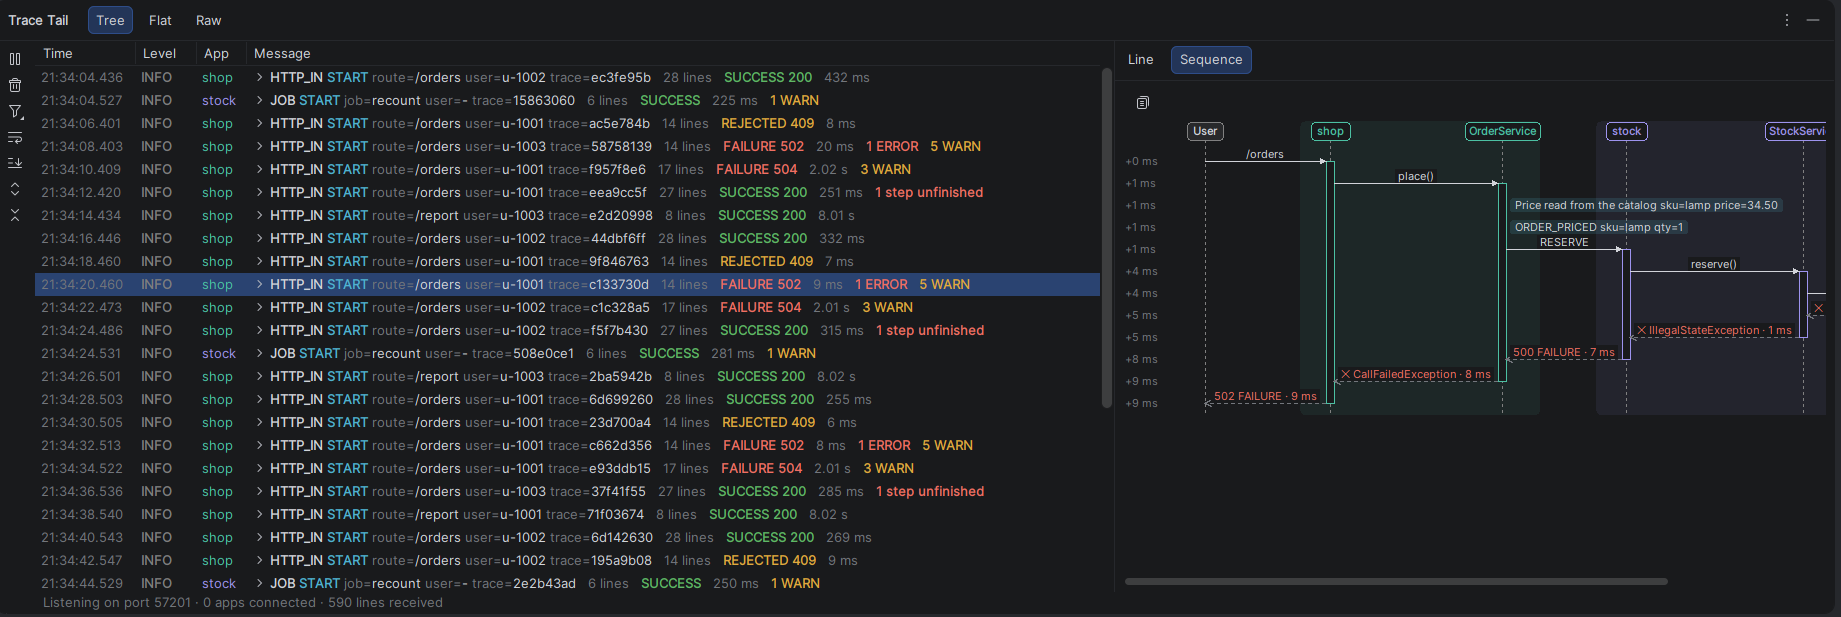
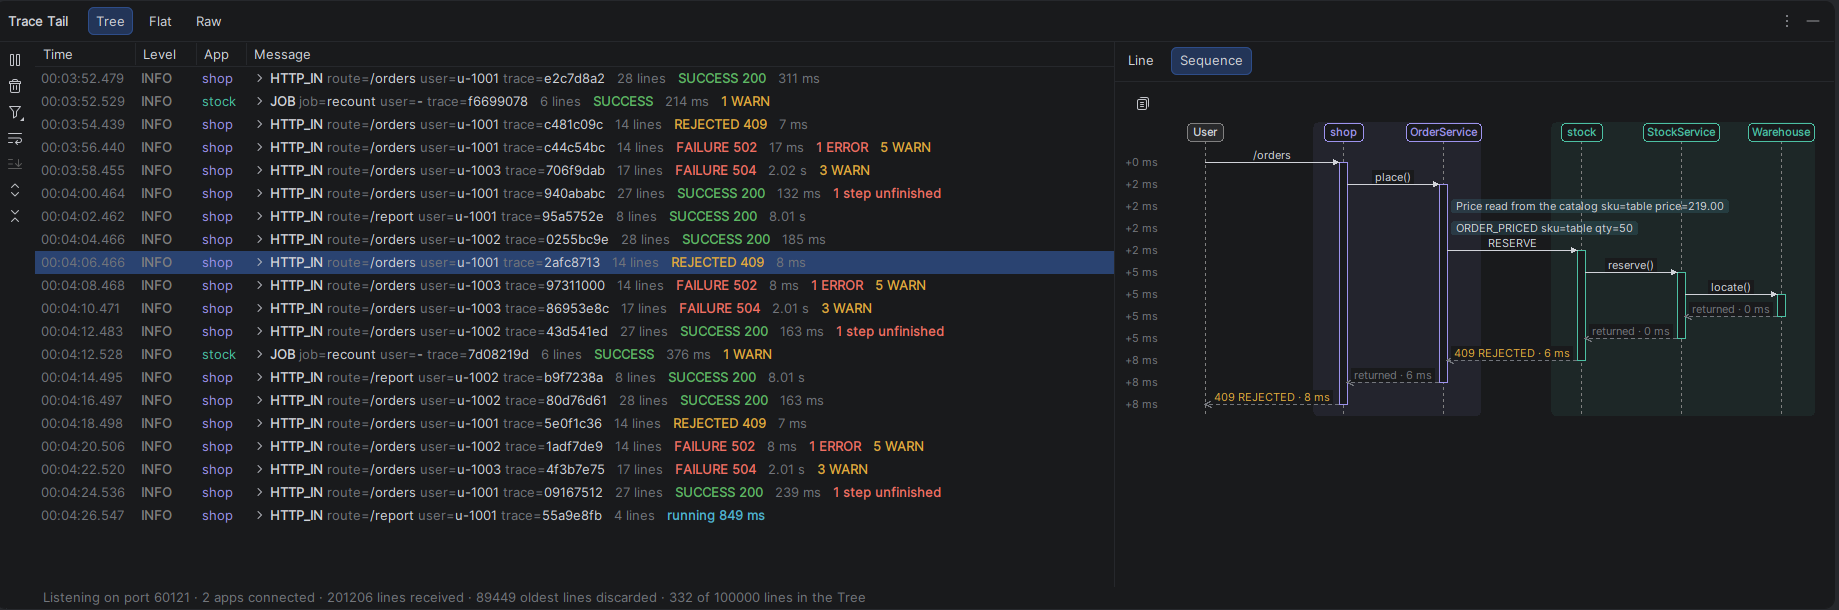
Show the START tag only on an open row, show the Tree's line count in the status line, update the Tree screenshot

diff --git a/src/main/kotlin/io/github/akifkaya0/tracetail/ui/TraceTree.kt b/src/main/kotlin/io/github/akifkaya0/tracetail/ui/TraceTree.kt
@@ -432,17 +432,18 @@ internal class TraceTree(
         }
         parts = when (val r = node?.row) {
             is PendingRow -> listOf(r.text to if (r.lost) Palette.ERROR_ITALIC else Palette.RUNNING_ITALIC)
-            is LineRow -> lineParts(r) + if (r.group || (r.step != null && !expanded)) r.summary.map { (t, a) -> "   $t" to a } else emptyList()
+            is LineRow -> lineParts(r, expanded) + if (r.group || (r.step != null && !expanded)) r.summary.map { (t, a) -> "   $t" to a } else emptyList()
             else -> emptyList()
         }
     }
 
-    private fun lineParts(r: LineRow): List<Part> {
+    private fun lineParts(r: LineRow, expanded: Boolean): List<Part> {
         val l = r.line
         if (r.group && r.step == null) return listOf("trace " + r.trace.id.take(8) to Palette.BOLD)
         val parts = ArrayList<Part>()
         parts += l.title to if (l.event != null) Palette.BOLD else Palette.PLAIN
-        l.phase?.let { parts += " $it" to if (it.name == "START") Palette.START else Palette.END }
+        // a closed row stands for the whole step, and its summary tells how the step went
+        l.phase?.let { if (expanded || it.name != "START") parts += " $it" to if (it.name == "START") Palette.START else Palette.END }
         for ((key, value) in l.fields) {
             if (key in HIDDEN_FIELDS) continue
             parts += " $key=" to Palette.GRAY

diff --git a/src/main/kotlin/io/github/akifkaya0/tracetail/ui/TraceTailPanel.kt b/src/main/kotlin/io/github/akifkaya0/tracetail/ui/TraceTailPanel.kt
@@ -29,6 +29,7 @@ import io.github.akifkaya0.tracetail.TraceFeed
 import io.github.akifkaya0.tracetail.TraceTailServer
 import io.github.akifkaya0.tracetail.model.Change
 import io.github.akifkaya0.tracetail.model.Level
+import io.github.akifkaya0.tracetail.model.TraceModel
 import java.awt.BorderLayout
 import javax.swing.JComponent
 import javax.swing.JPanel
@@ -110,6 +111,7 @@ class TraceTailPanel(private val project: Project, private val toolWindow: ToolW
             append(" · ${Palette.plural(s.connections, "app")} connected")
             append(" · ${s.received} lines received")
             if (s.dropped > 0) append(" · ${s.dropped} oldest lines discarded")
+            append(" · ${feed.model.traceLines} of ${TraceModel.TRACE_LINES_MAX} lines in the Tree")
             if (feed.paused) append(" · paused")
         }
         statusLines.forEach { it.text = text }

diff --git a/src/test/kotlin/io/github/akifkaya0/tracetail/model/TraceModelTest.kt b/src/test/kotlin/io/github/akifkaya0/tracetail/model/TraceModelTest.kt
@@ -115,6 +115,15 @@ class TraceModelTest {
         assertEquals(listOf("r2"), change.removed.map { it.id })
         assertEquals(listOf("r1", "r3"), model.traces.keys.take(2))
         assertEquals(TraceModel.TRACE_LINES_MAX + 1 - 4_999, model.traces.values.sumOf { it.lines.size })
+        // the count the status line shows
+        assertEquals(TraceModel.TRACE_LINES_MAX + 1 - 4_999, model.traceLines)
+    }
+
+    @Test
+    fun countsTheLinesARequestKeepsAfterDroppingSome() {
+        model.add((1..6_000).map { line("""{"message":"m $it","trace.id":"big","span.id":"s"}""") })
+        assertEquals(4_998, model.traces.getValue("big").lines.size)
+        assertEquals(4_998, model.traceLines)
     }
 
     @Test

diff --git a/src/main/kotlin/io/github/akifkaya0/tracetail/model/TraceModel.kt b/src/main/kotlin/io/github/akifkaya0/tracetail/model/TraceModel.kt
@@ -35,7 +35,8 @@ class TraceModel {
     val traces = LinkedHashMap<String, Trace>()
 
     /** The lines of [traces], all together. */
-    private var traceLines = 0
+    var traceLines = 0
+        private set
 
     /** The apps in the order their first line arrived. */
     val apps: Set<String> get() = appIndex.keys

diff --git a/README.tr.md b/README.tr.md
@@ -9,7 +9,7 @@ göre toplanmış olarak gelir: her istek tek bir satıra katlanır; açıldığ
 uygulamadan geçen bir isteğin hangi adımlardan oluştuğunu, hangi adımın hangisini başlattığını ve
 nerede hata verdiğini tek bakışta görebilirsiniz.
 
-![Tree sekmesi: her istek için bir satır ve seçili, hata almış isteğin sequence diyagramı](docs/images/tree-sequence.png)
+![Tree sekmesi: her istek için bir satır ve seçili, reddedilmiş isteğin sequence diyagramı](docs/images/tree-sequence.png)
 
 ## Özellikler
 
@@ -166,8 +166,9 @@ gösterir. Diğer tüm alanlar `anahtar=değer` olarak gösterilir.
 Eklenti son 10.000 satırı bellekte tutar; böylece seviye filtresi değiştirildiğinde yeni filtre
 yalnızca yeni gelen satırlara değil, bu satırlara da uygulanır.
 
-Tree son 300 isteği, toplamda en fazla 100.000 satırla tutar. Bir istek en fazla 5.000 satır
-tutar; bunu geçince en eski satırlarını onda birlik parçalar halinde atar. Önce adımların içindeki
+Tree son 300 isteği, toplamda en fazla 100.000 satırla tutar; durum satırı kaç satır tuttuğunu
+gösterir. Bir istek en fazla 5.000 satır tutar; bunu geçince en eski satırlarını onda birlik
+parçalar halinde atar. Önce adımların içindeki
 satırlar atılır, en yeni 500 satır hariç; böylece her adım `START` ve `END` satırlarını korur. Bu
 yetmezse en eski bitmiş adımlar atılır. İsteğin satırı bundan sonra kaç satır atıldığını gösterir;
 `WARN` ve `ERROR` sayıları atılan satırları da içerir.

diff --git a/README.md b/README.md
@@ -8,7 +8,7 @@ belong to: each request is folded into a single line; opening it shows its log l
 `trace.id`, `span.id` and `parent.id`. So for a request that passes through several applications,
 you can see at a glance which steps it took, which step started which, and where it failed.
 
-![The Tree tab: one row per request, and the selected failed request drawn as a sequence diagram](docs/images/tree-sequence.png)
+![The Tree tab: one row per request, and the selected rejected request drawn as a sequence diagram](docs/images/tree-sequence.png)
 
 ## Features
 
@@ -160,8 +160,9 @@ Every other field is shown as `key=value`.
 The plugin keeps the last 10,000 lines in memory, so a changed level filter applies not only to new
 lines but to those too.
 
-The Tree keeps the last 300 requests, with at most 100,000 lines in all. A request keeps at most
-5,000 lines; past that, it drops its oldest lines, a tenth at a time. The lines inside its steps go
+The Tree keeps the last 300 requests, with at most 100,000 lines in all; the status line shows how
+many it holds. A request keeps at most 5,000 lines; past that, it drops its oldest lines, a tenth
+at a time. The lines inside its steps go
 first, except the newest 500, so every step keeps its `START` and `END` lines. When that is not
 enough, its oldest finished steps go. Its row then shows how many lines it dropped, and its `WARN`
 and `ERROR` counts still include them.
